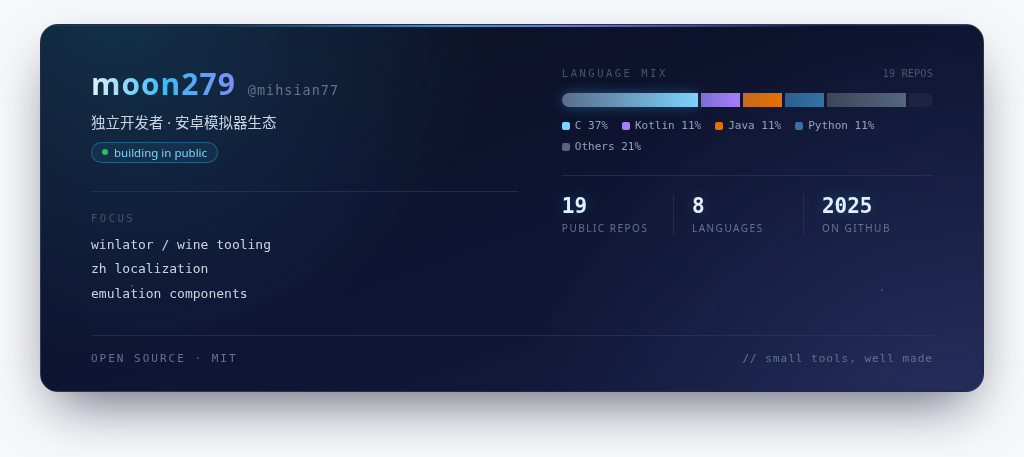
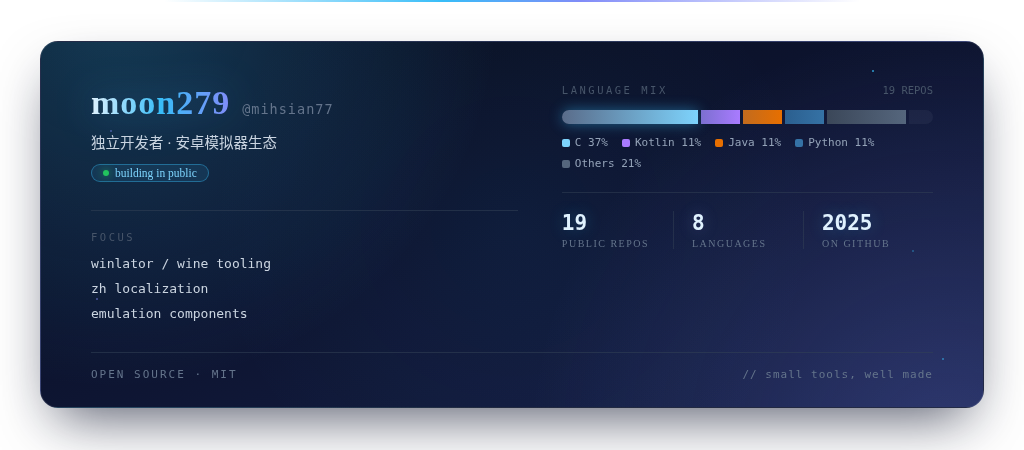
docs: add stack badges and open-to-collaboration to profile readme
Refresh header image with brighter accents. Single commit, only this repo touched; revert to restore previous readme.

diff --git a/README.md b/README.md
@@ -1,3 +1,32 @@
 <p align="center">
   <img src="assets/profile-header.png" alt="moon279 — 独立开发者 · 安卓模拟器生态" width="880">
 </p>
+
+<p align="center">
+  <img src="https://img.shields.io/badge/-C-555555?style=flat-square&logo=c&logoColor=white" alt="C">
+  <img src="https://img.shields.io/badge/-Kotlin-7F52FF?style=flat-square&logo=kotlin&logoColor=white" alt="Kotlin">
+  <img src="https://img.shields.io/badge/-Java-E76F00?style=flat-square&logo=openjdk&logoColor=white" alt="Java">
+  <img src="https://img.shields.io/badge/-Python-3572A5?style=flat-square&logo=python&logoColor=white" alt="Python">
+  <img src="https://img.shields.io/badge/-Shell-4EAA25?style=flat-square&logo=gnubash&logoColor=white" alt="Shell">
+  <img src="https://img.shields.io/badge/-JavaScript-F7DF1E?style=flat-square&logo=javascript&logoColor=black" alt="JavaScript">
+</p>
+
+<p align="center">
+  <img src="https://img.shields.io/badge/-Android-3DDC84?style=flat-square&logo=android&logoColor=white" alt="Android">
+  <img src="https://img.shields.io/badge/-Linux-FCC624?style=flat-square&logo=linux&logoColor=black" alt="Linux">
+  <img src="https://img.shields.io/badge/-Wine-A91D2F?style=flat-square" alt="Wine">
+  <img src="https://img.shields.io/badge/-Winlator-7B5EA7?style=flat-square" alt="Winlator">
+  <img src="https://img.shields.io/badge/-Vulkan-AC162C?style=flat-square&logo=vulkan&logoColor=white" alt="Vulkan">
+</p>
+
+<p align="center">
+  <img src="https://img.shields.io/badge/-Git-F05032?style=flat-square&logo=git&logoColor=white" alt="Git">
+  <img src="https://img.shields.io/badge/-GitHub%20Actions-2088FF?style=flat-square&logo=githubactions&logoColor=white" alt="GitHub Actions">
+  <img src="https://img.shields.io/badge/-CI%2FCD-0D1430?style=flat-square" alt="CI/CD">
+  <img src="https://img.shields.io/badge/-Android%20NDK-0D1430?style=flat-square&logo=android&logoColor=white" alt="Android NDK">
+</p>
+
+<p align="center">
+  <b>Open to collaboration</b> — Winlator / Wine 安卓生态的驱动、汉化与工具链方向，欢迎 PR、Issue 与交流。<br>
+  <a href="https://github.com/mihsian77/Emubox">github.com/mihsian77/Emubox</a>
+</p>
